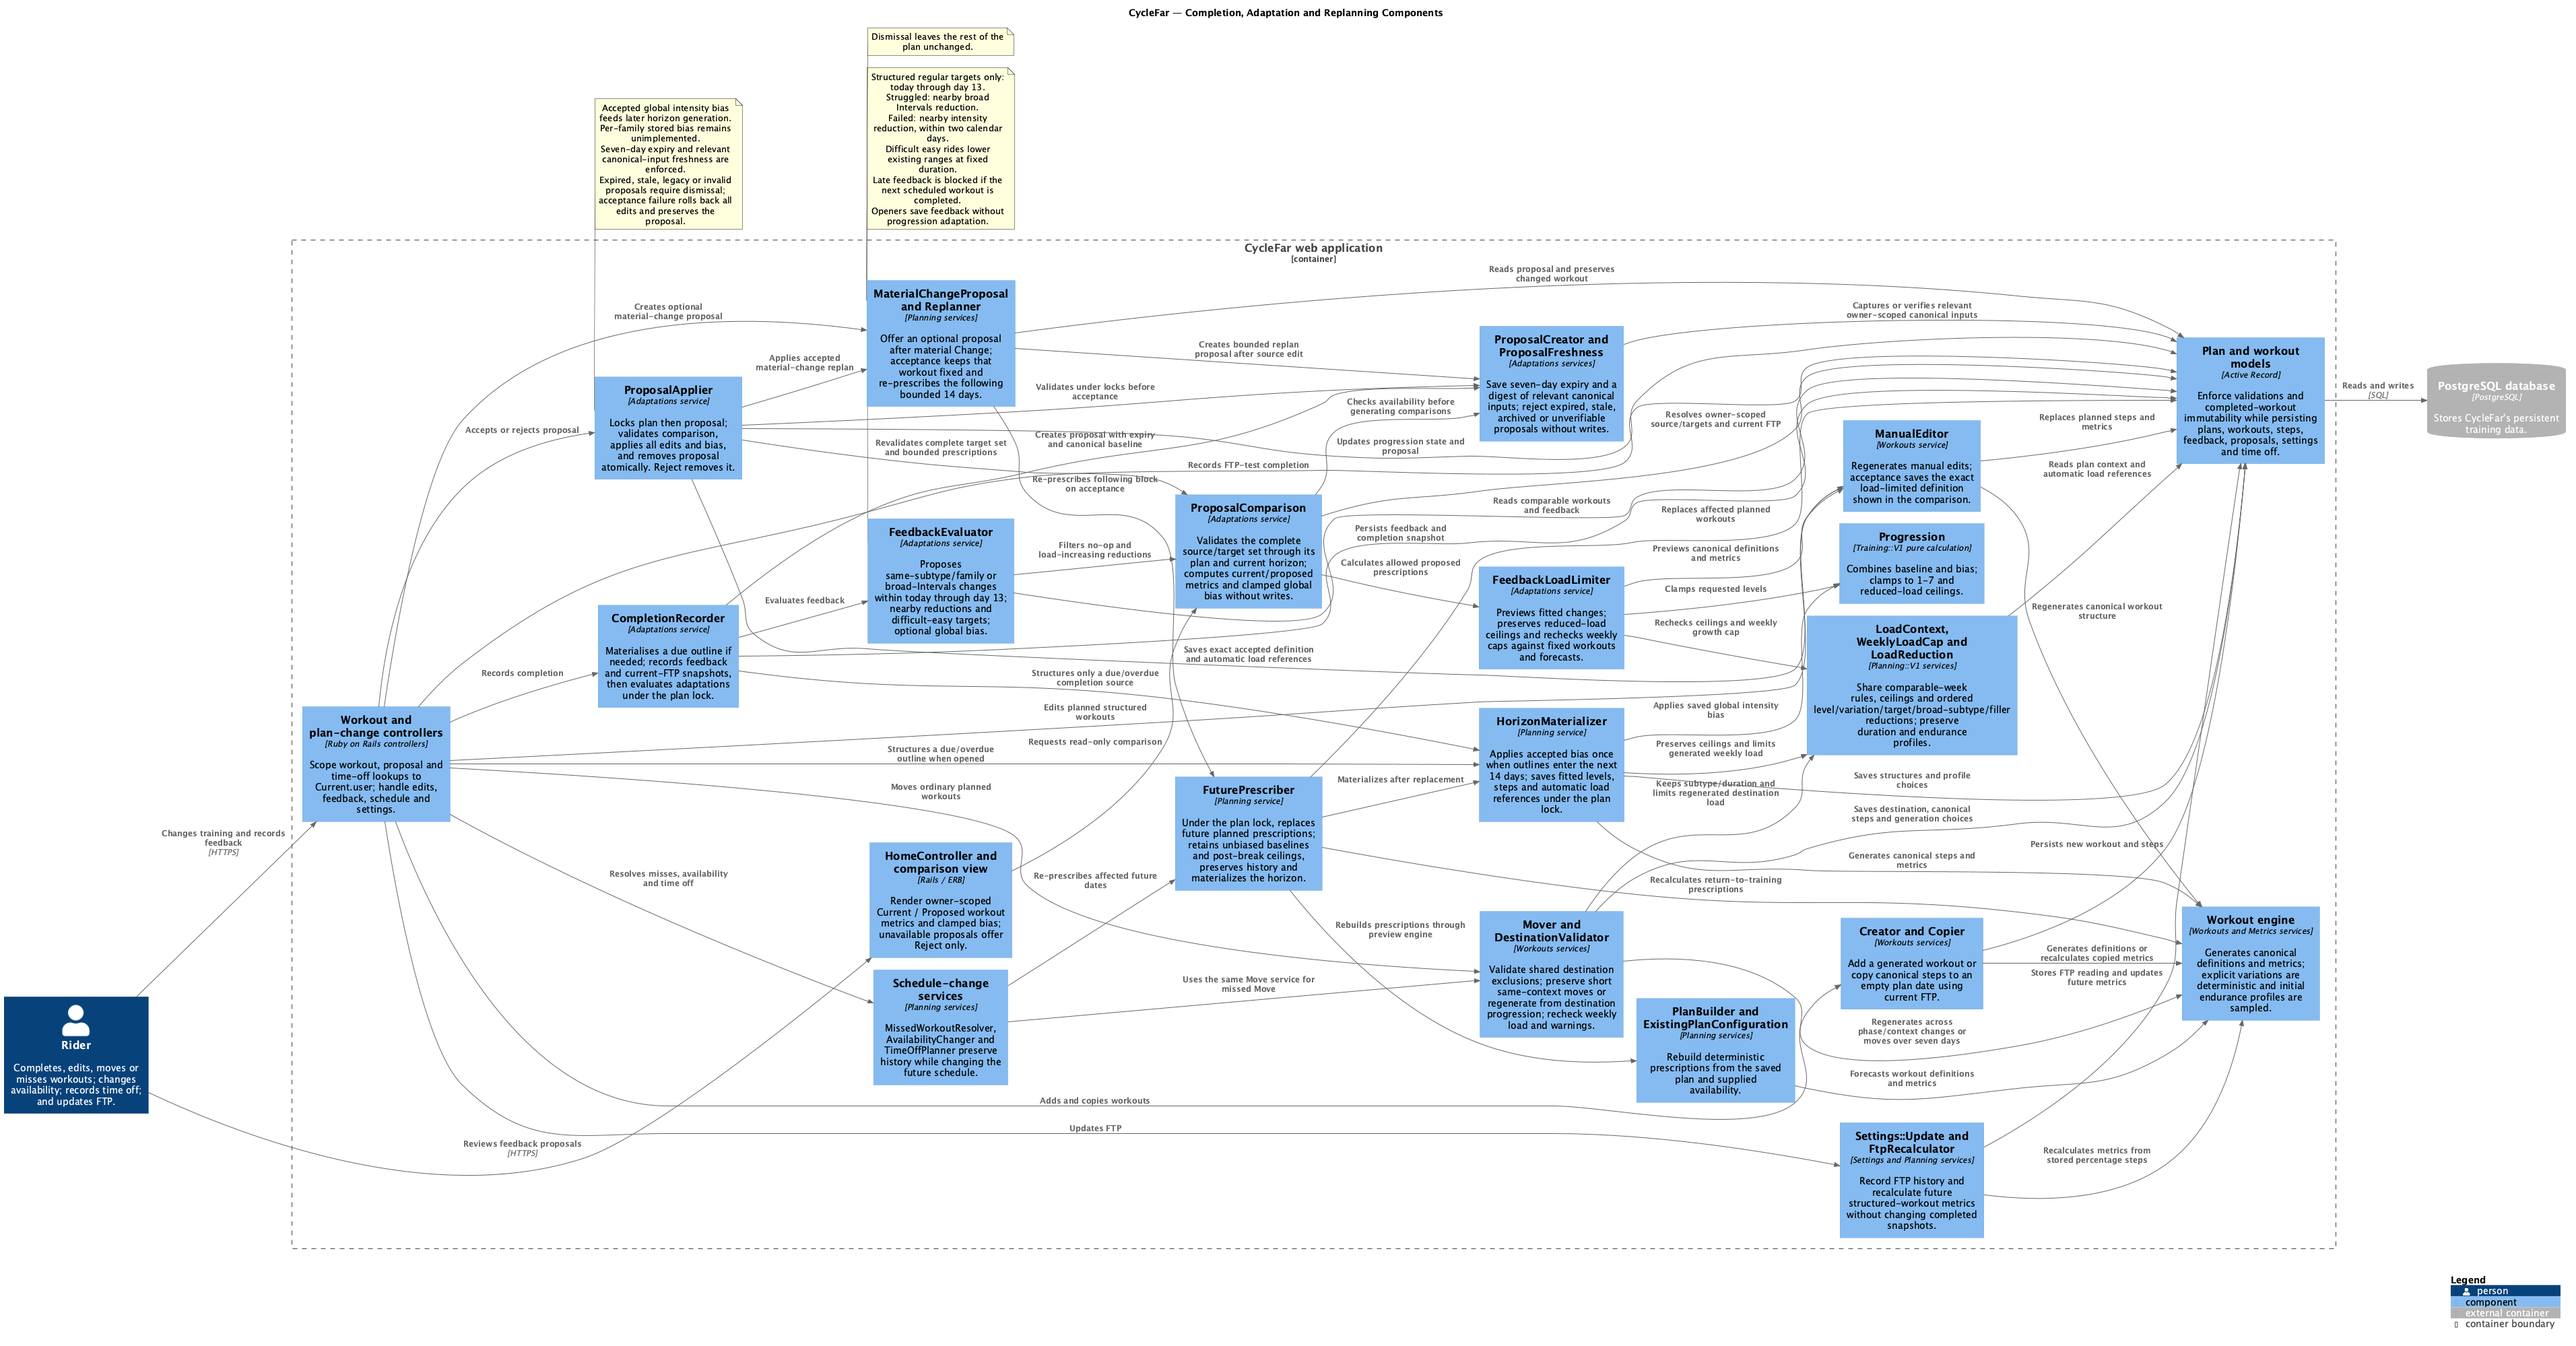
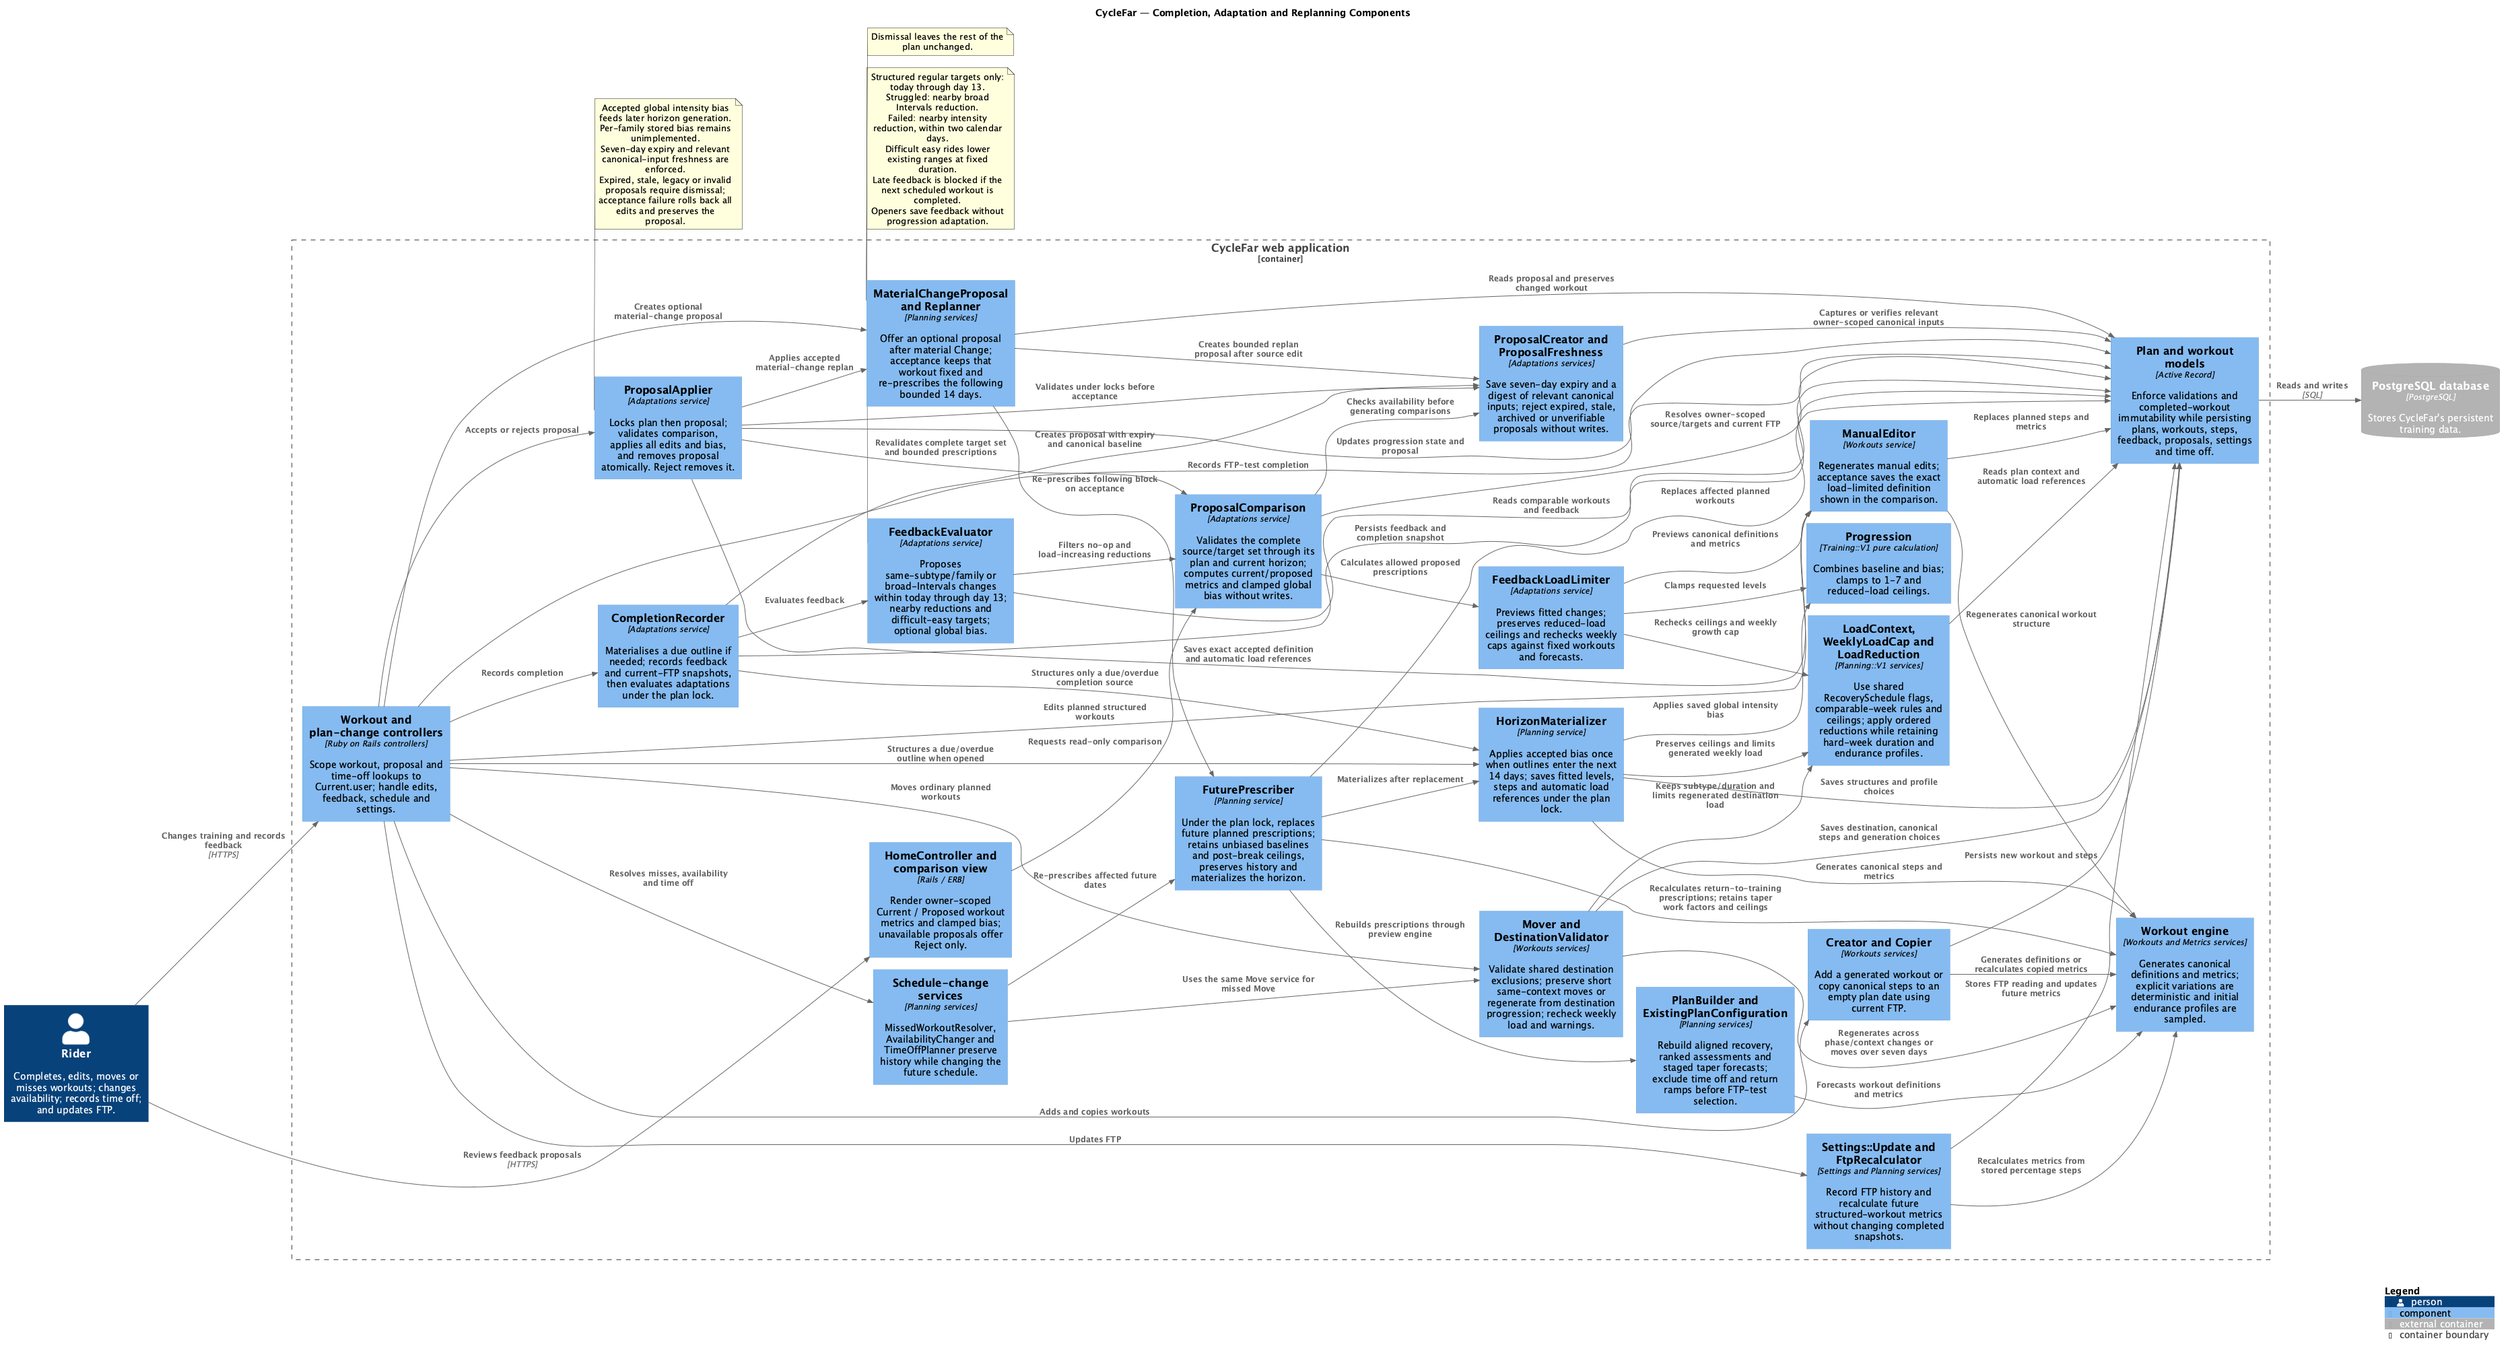
Update diagrams and PNG exports for CYF-11

diff --git a/docs/diagrams/README.md b/docs/diagrams/README.md
@@ -1,13 +1,13 @@
 # CycleFar architecture diagrams
 
-These diagrams describe the implemented application, including owner-scoped requests and sync, account access, preview isolation, feedback comparisons, accepted progression bias and optional material-change replanning. All ten views were reviewed against the controllers, services and SQL schema on 2026-10-03, including proposal freshness, destination-aware moves, executable completion and ordered weekly load-cap enforcement through CYF-10. They do not certify all V1 requirements; outstanding behaviour is tracked in Jira.
+These diagrams describe the implemented application, including owner-scoped requests and sync, account access, preview isolation, feedback comparisons, accepted progression bias and optional material-change replanning. The views reflect changes through CYF-11 and were reviewed on 2026-10-04, including shared recovery scheduling, ranked FTP assessments and staged taper budgets. They do not certify all V1 requirements; outstanding behaviour is tracked in Jira.
 
 | View (PlantUML source) | PNG | Scope |
 | --- | --- | --- |
 | [System context](context-cyclefar-system.puml) | [PNG](png/context-cyclefar-system.png) | Rider, owner-scoped CycleFar, Intervals.icu and SMTP provider |
 | [Containers](container-cyclefar.puml) | [PNG](png/container-cyclefar.png) | Rails/Puma with supervised Solid Queue, PostgreSQL databases and SMTP provider |
 | [Application components](component-cyclefar-application.puml) | [PNG](png/component-cyclefar-application.png) | Authentication, controlled account access, request handling, presentation, domain services and persistence |
-| [Plan generation](component-cyclefar-plan-generation.puml) | [PNG](png/component-cyclefar-plan-generation.png) | Session draft, deterministic preview, confirmation, accepted bias and shared load limits during materialisation |
+| [Plan generation](component-cyclefar-plan-generation.puml) | [PNG](png/component-cyclefar-plan-generation.png) | Session draft, aligned recovery, ranked assessments, taper budgets, confirmation and saved generation choices during materialisation |
 | [Plan changes](component-cyclefar-plan-change.puml) | [PNG](png/component-cyclefar-plan-change.png) | Manual edits, completion, bounded feedback, before/after comparison, atomic acceptance, schedule and FTP updates |
 | [Intervals.icu sync](component-cyclefar-intervals-icu-sync.puml) | [PNG](png/component-cyclefar-intervals-icu-sync.png) | Selection, serialization, HTTP calls and local reconciliation metadata |
 
@@ -15,8 +15,8 @@ The component views answer **which parts own a responsibility**. For request ord
 
 | Sequence view (PlantUML source) | PNG | Follow this flow |
 | --- | --- | --- |
-| [Create a plan](sequence-cyclefar-plan-creation.puml) | [PNG](png/sequence-cyclefar-plan-creation.png) | Submit and review an owner-bound, in-memory preview; confirm, persist outlines and materialize the 14-day horizon. |
-| [Change future training](sequence-cyclefar-future-replanning.puml) | [PNG](png/sequence-cyclefar-future-replanning.png) | Availability, time-off or missed-workout replan enters `FuturePrescriber`, replaces affected future prescriptions and materializes nearby detail. |
+| [Create a plan](sequence-cyclefar-plan-creation.puml) | [PNG](png/sequence-cyclefar-plan-creation.png) | Review an owner-bound preview with shared scheduling and taper budgets; confirm, persist generation choices and materialize the 14-day horizon. |
+| [Change future training](sequence-cyclefar-future-replanning.puml) | [PNG](png/sequence-cyclefar-future-replanning.png) | Rebuild affected future prescriptions with assessment exclusions and saved taper context, then materialize nearby detail. |
 | [Feedback proposal](sequence-cyclefar-feedback-proposal.puml) | [PNG](png/sequence-cyclefar-feedback-proposal.png) | Completion saves an immutable snapshot; feedback creates an optional proposal; read-only comparison precedes acceptance or rejection. |
 | [Material Change Workout proposal](sequence-cyclefar-material-change-proposal.puml) | [PNG](png/sequence-cyclefar-material-change-proposal.png) | Change Workout immediately saves the selected workout; a separate optional acceptance replans the bounded following block. |
 
@@ -37,6 +37,12 @@ AWS Terraform/CloudFormation templates are separate infrastructure preparation. 
 Ordinary and missed Move share `Workouts::Mover` and `DestinationValidator`. Eligible same-context moves of at most seven days keep their structure; other moves regenerate from destination progression, retaining subtype and duration. Destination exclusions and weekly load warnings apply to both paths. Openers record immutable completion feedback without progression adaptation; late regular-workout feedback is suppressed only when the next scheduled workout is completed.
 
 `WeeklyLoadCap` and `LoadReduction` enforce the ordered section 27 strategy during previews, actual materialisation and feedback comparisons/acceptance: progression level, lower-load variation, work targets within existing bands, compatible subtype reduction for broad Intervals, then valid short main sets plus easy filler. Normal duration, specific subtype intent and sampled endurance profile identity remain fixed. Generation choices survive outline persistence; infeasible schedules show a non-blocking warning after valid options are exhausted. Partial, recovery, taper, assessment, time-off and re-entry weeks do not become comparable hard-week references. Manual one-off overrides retain separate automatic-load references.
+
+`RecoverySchedule` supplies the same flags to `PlanBuilder`, `CalendarPresenter` and `LoadContext`. A recovery within one week of a Build/Speciality transition can align to the preceding complete Monday–Sunday week; at least one hard week separates recoveries and the cycle resumes from the aligned week. Taper weeks are excluded; continuous progression adds no scheduled recoveries.
+
+`AssessmentSchedule` ranks configured intensity days, including specific subtypes, within the four-to-six-week window: first intensity after recovery, first intensity near a phase start, rest/recovery-preceded intensity, then other intensity and ordinary-day fallbacks. Ties use distance from the ideal five-week date and then the earlier date. If the whole window is unavailable, it uses the first later eligible slot. Recovery and taper are excluded; `ExistingPlanConfiguration` also excludes time off and return ramps before selection. The 14-day end exclusion applies to target events, not non-event plans. Short plans retain the no-routine-assessment policy.
+
+After hard-week load enforcement, `PlanBuilder` budgets taper stages against the highest comparable generated hard-week TSS. A long taper's earlier stage targets 75% of peak, prorated by its days; the final seven dates through the event target 50%, including for non-Sunday events. Early/final intensity work factors are 75%/60%, retaining normal power bands and positive 30-second segments. Duration adjusts toward the budget without adding training dates; the 30-minute minimum, event and opener remain fixed, so sparse availability can make the approximate target infeasible. Saved `load_adjustments.main_set_factor` and fitted progression ceilings survive outline persistence, horizon generation and post-break recalculation; positive bias cannot escalate saved tapered sets. Legacy taper outlines retain the level-2 ceiling fallback. The change does not bulk rewrite existing plans.
 
 ## Rendering and maintenance
 
@@ -60,4 +66,4 @@ PlantUML resolves this relative output directory beside each source, producing `
 
 When updating a view, compare it with the named controllers/services, routes and persistence schema. Check relationship endpoints, render the sources and inspect the resulting images. Keep implementation limits in diagram notes and this guide aligned with [ARCHITECTURE.md](../ARCHITECTURE.md), especially after proposal, move, completion or horizon changes.
 
-Validation on 2026-10-03 rendered all ten views to PNG and temporary SVG with PlantUML 1.2026.8, the previously downloaded C4 includes and the built-in Smetana layout engine. The exports were checked for rendering errors and visually reviewed; source/PNG links were checked.
+Validation on 2026-10-04 rendered all ten views to PNG and temporary SVG with PlantUML 1.2026.8, the previously downloaded C4 includes and the built-in Smetana layout engine. The exports were checked for rendering errors and visually reviewed; source/PNG links were checked.
